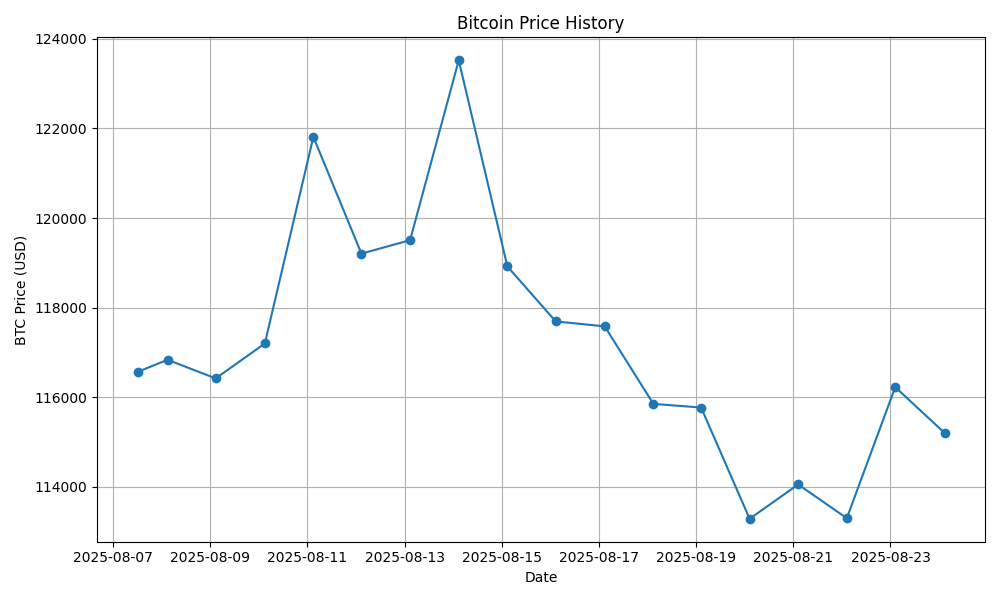
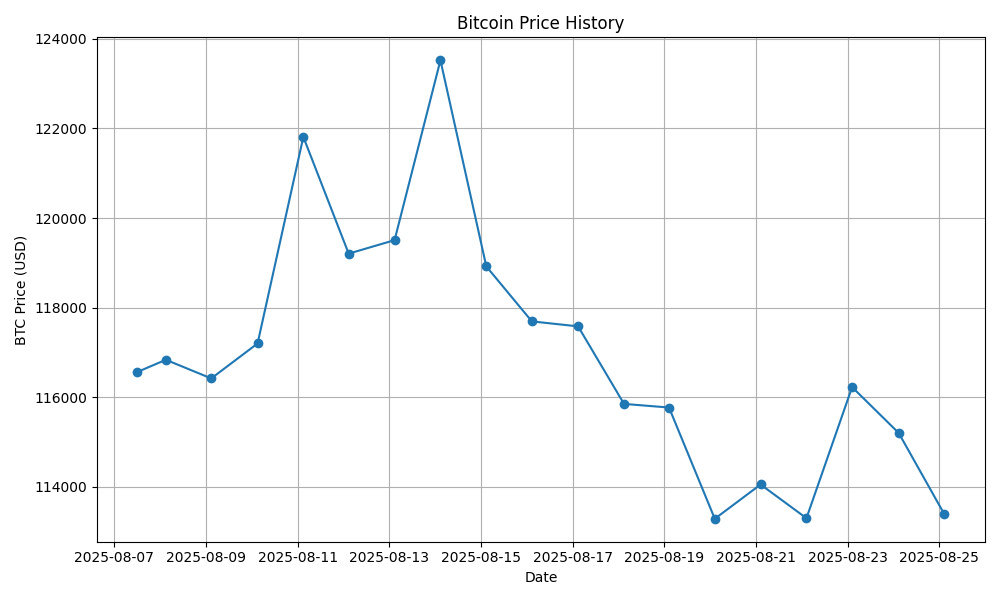
Update: BTC price, chart & README for 2025-08-25

diff --git a/README.md b/README.md
@@ -4,6 +4,6 @@ This project automatically fetches and charts the daily USD price of Bitcoin.
 
 ## Latest Stats
 
-## Latest price (USD): <!--BTC_PRICE-->115202<!--/BTC_PRICE-->
+## Latest price (USD): <!--BTC_PRICE-->113386<!--/BTC_PRICE-->
 
 ![BTC Historical Chart](btc_price_history.png)
